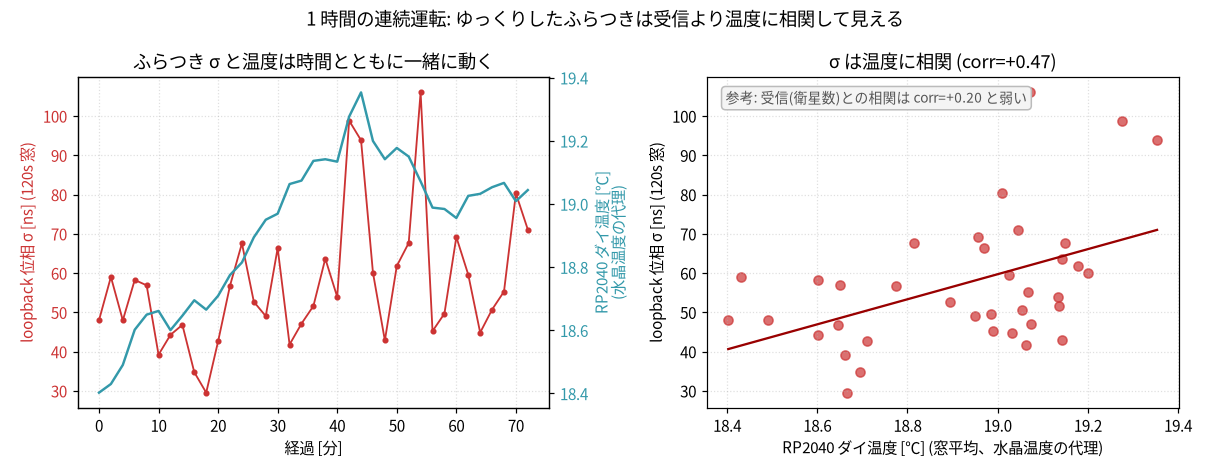
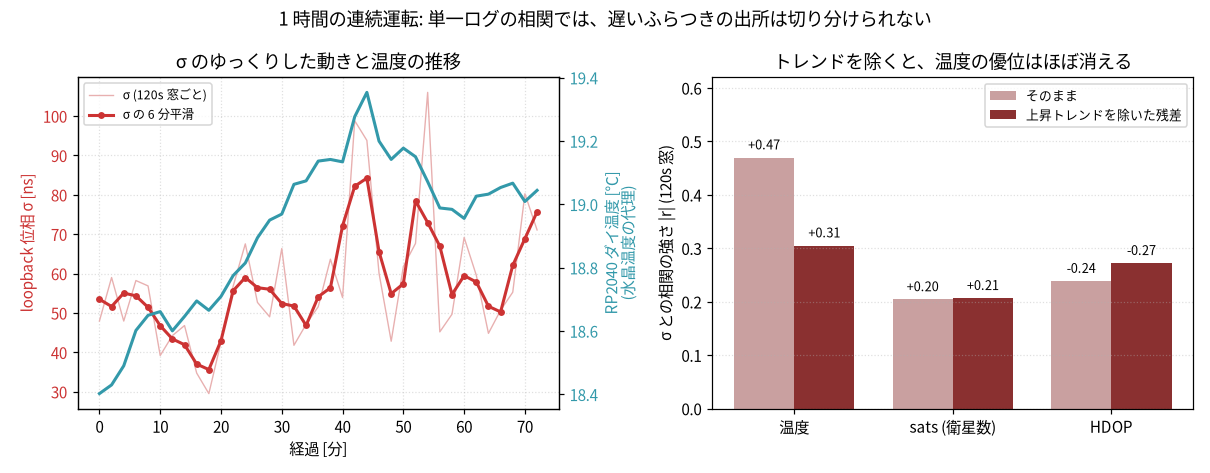
docs(precision): 1時間運転の相関の扱いを訂正 — 単一ログでは出所を切り分けられない
σ↔温度 +0.47 は共通の上昇トレンドが作る見かけが大半で、トレンドを除いた残差では
+0.31 に落ち、受信側 (+0.21/−0.27) との差がほぼ消えることを確認 (一階差分でも +0.25)。
本文を「単一ログの相関では温度と受信を切り分けられない。切り分けは能動実験で」に書き直し、
図も 左=σ の 6 分平滑と温度の推移 / 右=そのまま vs トレンド除去の相関比較 (優位が消える) に変更。

Claude-Session: https://claude.ai/code/session_01QA3SZ4k1hmnnVeG51UZWBZ

diff --git a/docs/report/precision-ladder/README.md b/docs/report/precision-ladder/README.md
@@ -335,17 +335,17 @@ highchk:
 
 短い窓では 35 ns 前後まで収まる一方で、1 時間ずっと ≤100 ns に入り続けるわけではない。100 ns を超えた約 8% は、速いジッタではなく、ゆっくりした位相のふらつきの山で出ている。以後、このゆっくりした位相の動きを「遅いふらつき」と呼ぶ。
 
-遅いふらつきの出所を見るため、120 秒窓ごとの loopback 位相 σ を sats、HDOP、温度と比べる。sats は受信している衛星数、HDOP は衛星配置から来る水平位置精度の目安で、どちらも受信状態の代理指標になる。このログで一番相関が強いのは温度で、相関係数は +0.47 ある。受信側は sats +0.20、HDOP −0.24 にとどまる。
+遅いふらつきの出所の候補は、受信の質と温度だ。120 秒窓ごとの loopback 位相 σ を、受信の代理指標 (sats = 受信している衛星数、HDOP = 衛星配置から来る水平位置精度の目安) と温度のそれぞれと比べると、そのままの相関は温度 +0.47、sats +0.20、HDOP −0.24 で、温度が頭ひとつ強く見える。ただし、この数字をそのまま信じてはいけない。この 1 時間は温度がほぼ単調に上がっていて、ゆっくり動く量どうしは中身と無関係でも相関して見える。実際、両方の系列から上昇トレンドを除いて残差どうしを比べると、温度は +0.31 に落ち、受信側 (+0.21、−0.27) との差はほぼ消える (図の右)。
 
-![ゆっくりした位相のふらつきは受信より温度に相関して見える](precision-figs/fig6-wander-source.png)
+![左: σ のゆっくりした動き (6 分平滑) と温度の 1 時間の推移。右: σ との相関の強さの比較。そのままでは温度が強く見えるが、上昇トレンドを除いた残差では受信側との差がほぼ消える](precision-figs/fig6-wander-source.png)
 
-この 1 時間ログでは、遅いふらつきは受信状態より発振器側の温度に寄って見える。ただ、温度は単調に動きやすく、単一ログの相関は強く見えやすい。そこで、仮説を切り分ける実験を重ねる。
+つまりこの 1 時間ログから言えるのは、遅いふらつきが分単位の時間スケールで動くことまでで、出所が温度か受信かは、受け身の相関では切り分けられない。切り分けは能動的な実験で行う。
 
 まず、制御ループ自身が遅いふらつきを作っていないかを、受信に依らず確かめる。PRBS でループの応答を直接測る。PRBS は既知の擬似ランダム 2 値系列で、これを制御に小さく注入し、loopback 位相に出てくる応答とその系列の相互相関を取る。系列と無相関な受信ノイズは平均で消えるので、ループ自身の応答の形だけが残る。
 
 測った応答は、ループの帯域を 3 通りに変えてもよく減衰していて、共振のピークは出ない。以前はこの遅い揺れを、ループの固有周期の共振を受信ノイズが叩いたものと見ていたが、その説明はこの受信非依存の計測と合わない。潰すべき type-II 共振は、少なくともこの測定では見えていない。実際、帯域、減衰、制御器の形、受信品質での選別のどれを触っても、遅いふらつきの振幅は下がらない。制御の形を整えて削れる成分ではない、という見方が強くなる。
 
-残るのは、制御が水晶に当てている周波数補正(±5〜20 ppb。1 ppb は 1 ns/s にあたる)に現れる低周波のゆらぎで、これは温度と相関係数約 0.8 で相関する。速い側の揺れは約 13〜18 ns が下限で、こちらは受信の質で決まっているように見えるが、遅いふらつきの主成分の 1/10 にすぎない。スペクトルで見ても、揺れの大きさの約 85% は周期 64〜300 秒の帯にあり、1 時間ログで温度との相関係数 +0.47 が出たこととも向きは合っている。遅いふらつきは受信より、発振器や水晶側の温度に寄っているらしい。最終的に確定するには外部の独立基準が要る(この結論は過去に一度反転してもいる)。
+残るのは、制御が水晶に当てている周波数補正(±5〜20 ppb。1 ppb は 1 ns/s にあたる)に現れる低周波のゆらぎで、これは温度と相関係数約 0.8 で相関する。速い側の揺れは約 13〜18 ns が下限で、こちらは受信の質で決まっているように見えるが、遅いふらつきの主成分の 1/10 にすぎない。スペクトルで見ても、揺れの大きさの約 85% は周期 64〜300 秒の帯にあり、遅いふらつきが分単位で動くという 1 時間ログの見え方と合う。遅いふらつきは受信より、発振器や水晶側の温度に寄っているらしい。最終的に確定するには外部の独立基準が要る(この結論は過去に一度反転してもいる)。
 
 ## 温度を急に変える
 
